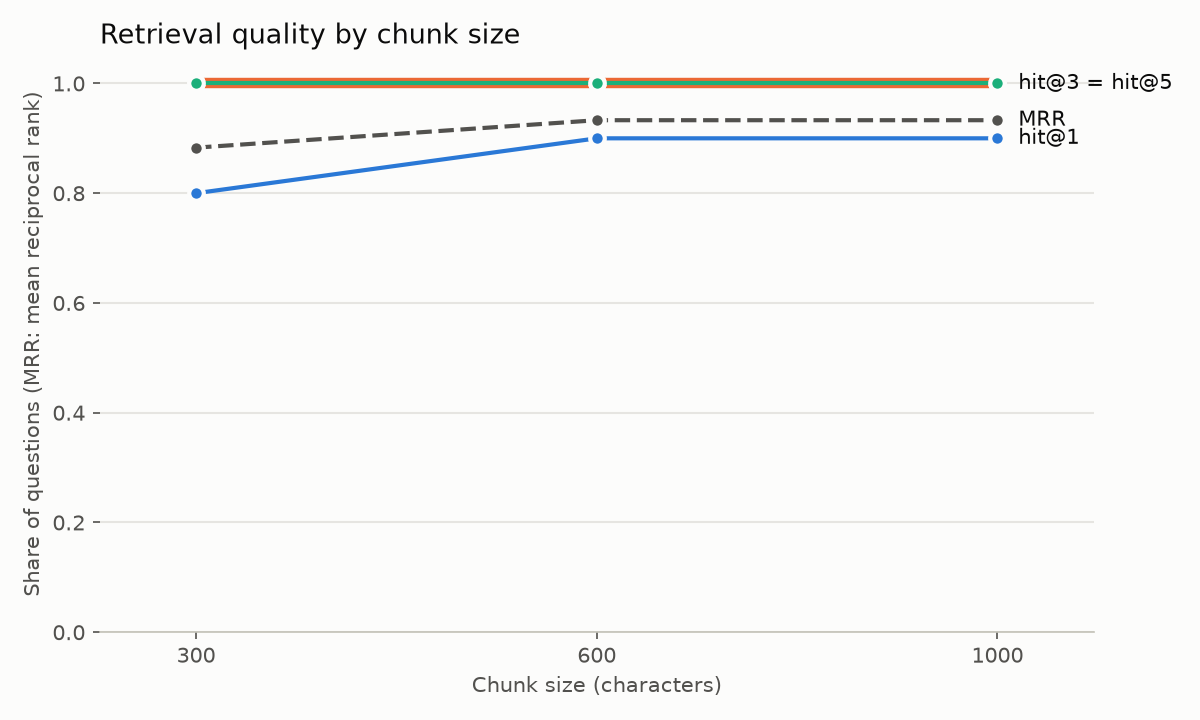
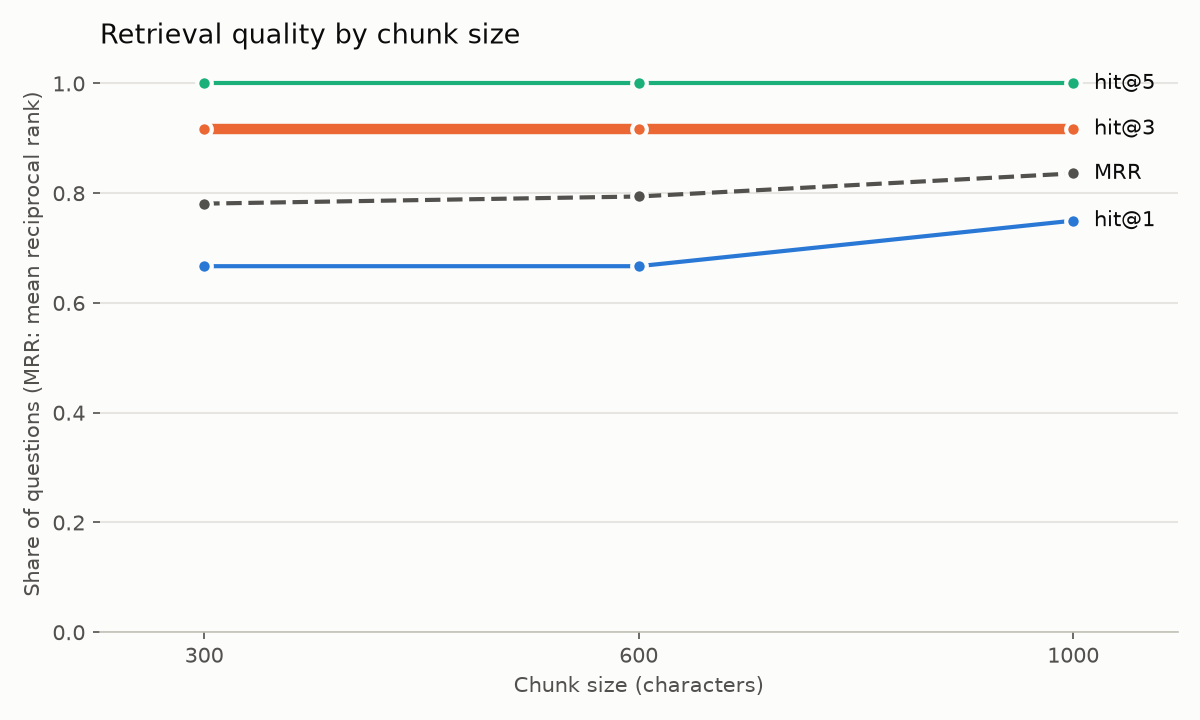
Re-measure the chunk-size experiment (chunker v2, 12 questions); update site, README and PROGRESS

diff --git a/rag_project/PROGRESS.md b/rag_project/PROGRESS.md
@@ -162,7 +162,7 @@ Open / pending:
 - Answer level is one run per question and Gemini 3.5 ignores `temperature`: R4 numeric went 1.0 to 0.5 and D1 citation 1 to 0 in advanced mode, probably noise (retrieval is better in both); D6, R1 and R4 are not fully solved (R1 needs neighbour chunks).
 - Semantic chunking and an LLM router were not built (cut order); the router is rule-based and English/Spanish/French/German keywords only.
 - FlashRank downloads its model on first use; the Docker image does not bake it because reranking is off.
-- `eval/chunking_results.csv` is still from before Stage 3 (not re-measured).
+- `eval/chunking_results.csv` was re-measured on 2026-11-23 (see the follow-up below).
 
 ### Stage 5 follow-up: smaller image and faster rebuilds (2026-11-23, user request)
 Measured with `podman build` on the laptop:
@@ -189,3 +189,10 @@ Needs the team (cannot be done by me):
 - **Manual scoring** (still pending): the evaluation page shows a "pendiente" note until `eval/manual_scoring.csv` has scores, then fills in its own table.
 - Only one app screenshot (the empty *Chat* tab): a headless browser cannot type a question. Add screenshots of an answered question, the *Fuentes* accordion and the *Comparar* tab to `docs/img/` and reference them in `06-app-despliegue.qmd` (optional).
 - Link checks: the site links to the app, repo and project 1 folder (`bank-churn-prediction`); the Pages URL assumes the repo is `Adra642/Proyecto-IA` and public (it is).
+
+### Chunk-size experiment re-measured (2026-11-23, branch `chunking-remeasure`)
+Re-ran `uv run python -m eval.chunking_experiment --with-fixed` with chunker version 2 and the 12 retrieval questions (the first run used 10 questions and the old header paths).
+- hit@5 = 1.00 for all variants. hit@1 / MRR: 300 chars 0.667 / 0.781, **600 chars 0.667 / 0.794**, 1000 chars 0.750 / 0.836, fixed 600 0.750 / 0.836. Average top-5 context: 2,128 / 2,568 / 2,975 / 2,556 chars.
+- Against the first run (MRR 0.933 for 600, 1000 and fixed): the drop for 600 comes from two questions added in Stage 3 (D6 rank 5, R4 rank 2) and D3, which went from rank 1 to rank 2 (cause not isolated: header change or question rewrite). The only question that separates 600 from 1000 / fixed is R4 (rank 2 vs 1), so the gap is one question out of 12.
+- [DECISION] kept at 600 / 90 (confirmed by the user on 2026-11-20): smaller context and an inconclusive gap. **1000 is now slightly ahead on MRR; the user may want to revisit.** Changing it would rebuild the index and invalidate the cached answers.
+- The site page `03-chunking-vectordb` and the README were updated with the new numbers; the plot's y-axis was widened (the 300 bar was below the old lower limit).

diff --git a/rag_project/README.md b/rag_project/README.md
@@ -138,7 +138,7 @@ uv run python -m eval.chunking_experiment --with-fixed   # about 20 min on CPU: 
 ```
 
 Writes `eval/chunking_results.csv`, `eval/chunking_detail.csv` (per question) and
-`eval/chunking_results.png`. Retrieval only, 10 questions with gold sources (`eval/questions.json`),
+`eval/chunking_results.png`. Retrieval only, 12 questions with gold sources (`eval/questions.json`),
 scored at chunk level (hit@k, MRR):
 
 | Variant | Chunks | Avg chars | hit@1 | hit@3 | hit@5 | MRR | Context (top 5, chars) |
